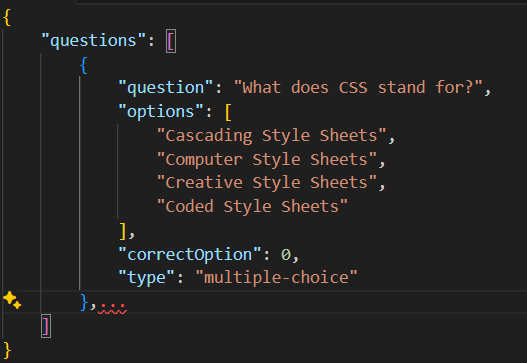
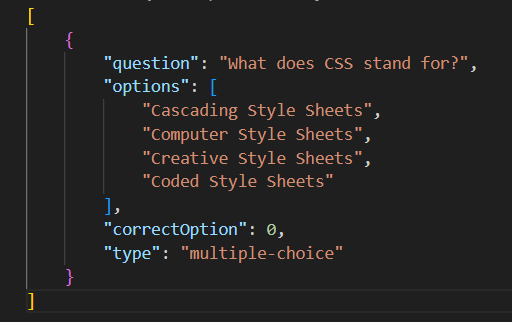
implement feat(admin): download json question format

diff --git a/src/app/features/admin/pages/create-skill/create-skill.component.html b/src/app/features/admin/pages/create-skill/create-skill.component.html
@@ -22,10 +22,10 @@
       <h3>Questions:</h3>
       <button mat-raised-button type="button" color="primary" (click)="fileInput.click()">
         <mat-icon>library_add</mat-icon>
-        <span>Import as Json File</span>
-        <input #fileInput  type="file" (change)="onFileInput($event)" class="file-hide"/>
+        <span>Import Questions</span>
+        <input #fileInput type="file" (change)="onFileInput($event)" accept=".json" class="file-hide" />
 
-        <ng-container *ngIf="jsonFile"  >
+        <ng-container *ngIf="jsonFile">
           <span class="file-name"> | {{jsonFile.name}}</span>
         </ng-container>
       </button>
@@ -35,8 +35,12 @@
     </form>
   </div>
   <div class="info">
-   <h1>Question Json Format:</h1>
+    <h1>Questions Json Format:</h1>
     <p>Questions are imported as a json file. The format of the json file is as follows:</p>
-    <img src="assets/images/utility/questionformat.png" >
+    <img src="assets/images/utility/questionformat.png">
+    <button mat-raised-button color="primary" (click)="quizanchor.click()">
+      Click here to download the JSON format
+    </button>
+    <a #quizanchor href="assets/data/utility/questionformat.json" download="questionformat.json"></a>
   </div>
 </section>

diff --git a/src/app/features/admin/pages/create-skill/create-skill.component.scss b/src/app/features/admin/pages/create-skill/create-skill.component.scss
@@ -1,42 +1,45 @@
 @import "src/assets/styles/variables.scss";
 
-.form-container{
+.form-container {
   background-color: $background-color;
   display: flex;
   flex-direction: row;
 }
 
 .form {
-  width: 45%;
+  width: 50%;
   padding: 20px;
   display: flex;
   flex-direction: column;
   justify-content: center;
   align-items: center;
   border-right: 1px solid $primary-color;
-  height: 48rem;
+  min-height: 93.5vh;
+
   h1 {
     color: $primary-color;
     font-size: 2em;
   }
-  .form-group{
+
+  .form-group {
     display: flex;
     flex-direction: column;
     width: 30rem;
   }
 }
 
-.file-hide{
-    display: none;
+.file-hide {
+  display: none;
 }
 
-.form-actions{
+.form-actions {
   display: flex;
   flex-direction: row;
   justify-content: space-around;
   width: 30rem;
   margin-top: 3rem;
-  button{
+
+  button {
     width: 10rem;
   }
 }
@@ -48,9 +51,31 @@
   flex-direction: column;
   justify-content: center;
   align-items: center;
+
   h1 {
     color: $primary-color;
     font-size: 2em;
   }
+
+  p {
+    color: $secondary-text-color;
+    font-size: 1.5em;
+    text-align: center;
+  }
+
+  img{
+   padding: 2rem;   
+  }
+
+  button {
+    margin-top: 2rem;
+  }
+  
+  a{
+    display: none;
+  }
+
+
+
 
 }

diff --git a/src/app/features/admin/pages/create-skill/create-skill.component.ts b/src/app/features/admin/pages/create-skill/create-skill.component.ts
@@ -95,8 +95,8 @@ export class CreateSkillComponent {
       fileReader.onload = (e) => {
         const fileContent = fileReader.result;
         if (fileContent !== null) {
-          const pars = JSON.parse(fileContent.toString());
-          const questions: Question[] = pars.questions;
+          const jsonpars = JSON.parse(fileContent.toString());
+          const questions: Question[] = jsonpars;
           this.skillForm.value.questions.length = 0;
           questions.forEach((question: Question) => {
             this.skillForm.value.questions.push(question);
